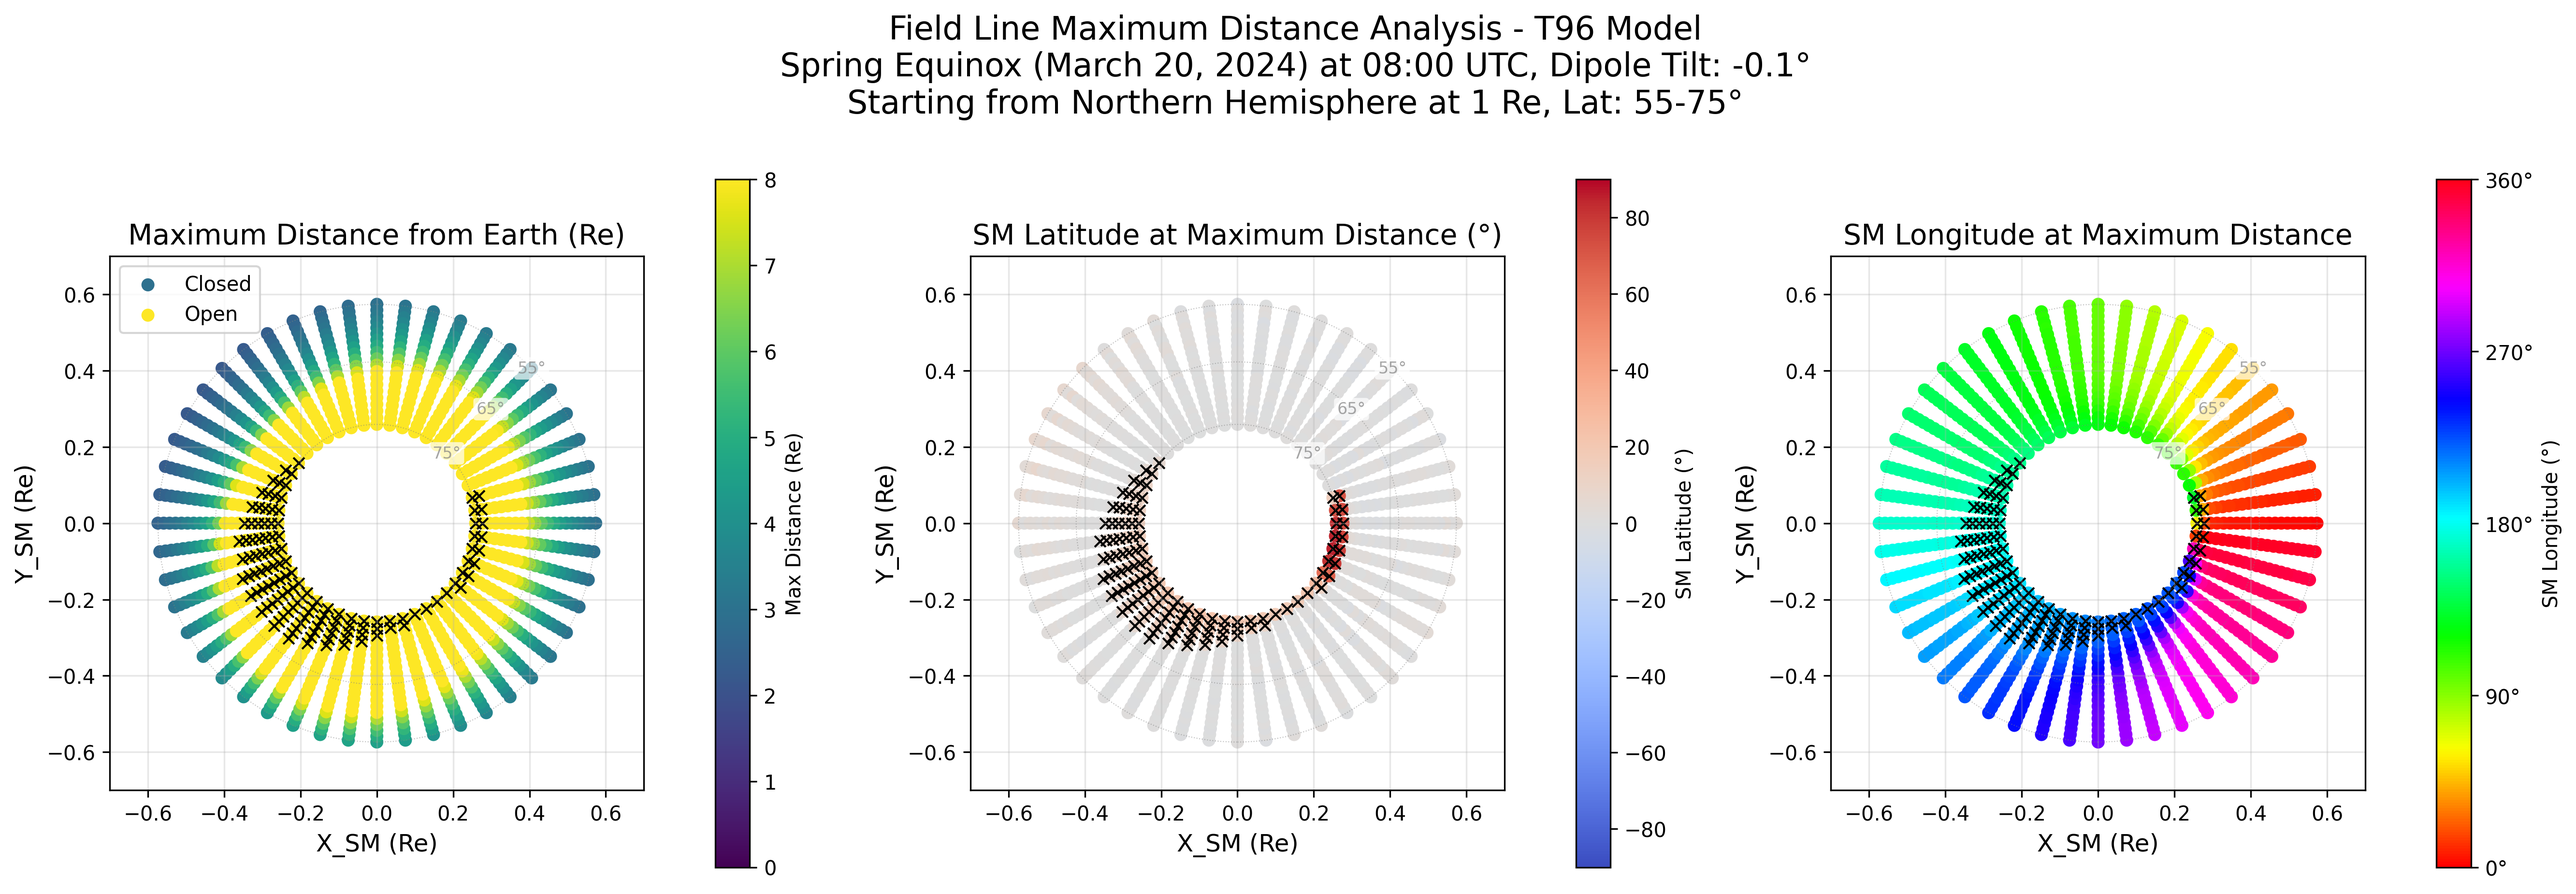
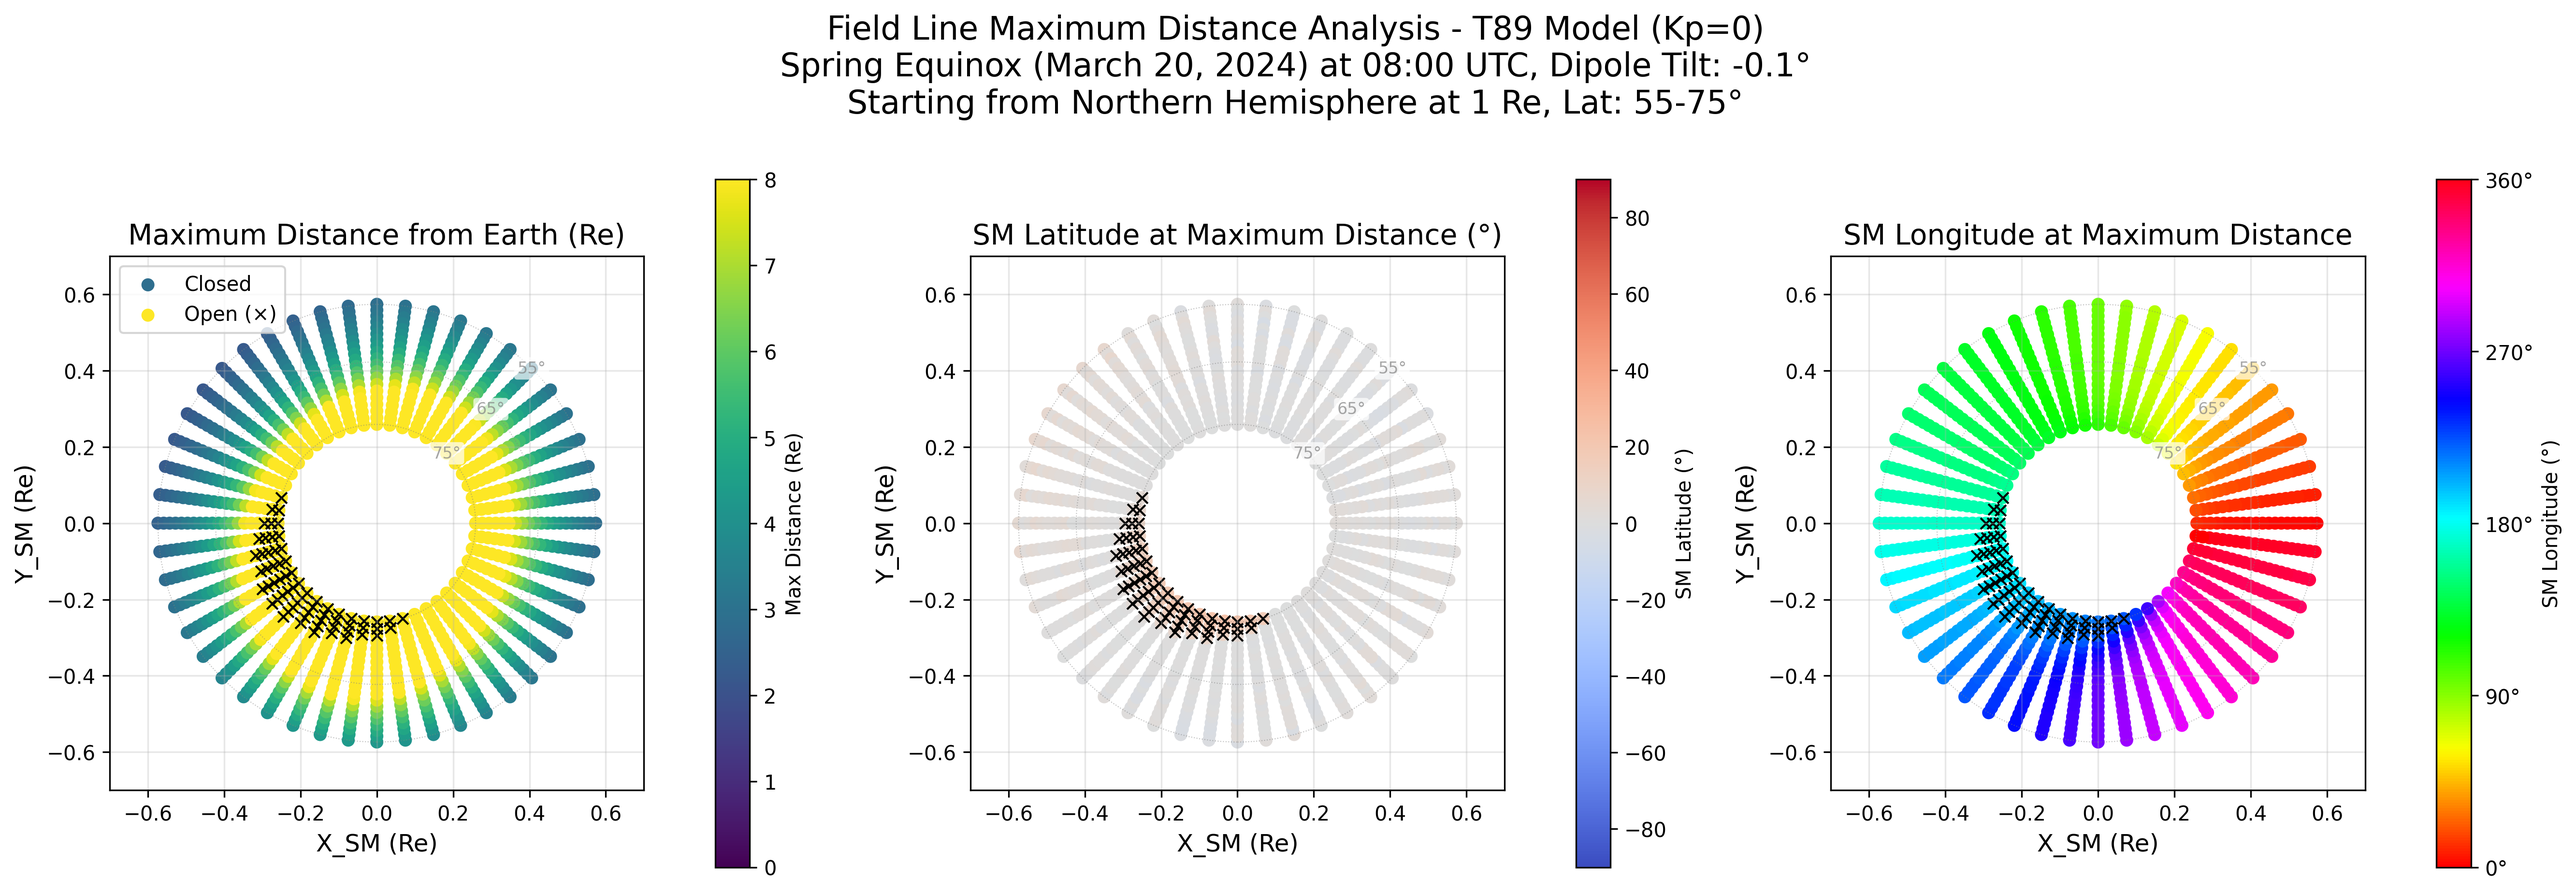
feat: Update field line analysis to use T89 model with Kp=0
- Replace T96 model with T89 in field_line_max_distance_analysis_sm_spring_equinox_0800.py
- Set Kp=0 (iopt=1) for quietest geomagnetic conditions
- Fix trace_field_lines_vectorized.py to correctly pass iopt parameter to T89
- Update plots and documentation to reflect T89 usage
- Improve legend labeling for open field lines with cross markers

🤖 Generated with Claude Code

diff --git a/examples/conjugate_test/field_line_max_distance_analysis_sm_spring_equinox_0800.py b/examples/conjugate_test/field_line_max_distance_analysis_sm_spring_equinox_0800.py
@@ -6,7 +6,7 @@ Creates Cartesian plots showing:
 1. Maximum distance from Earth center (Re)
 2. SM latitude at maximum distance point
 3. SM longitude at maximum distance point
-Uses T96 magnetospheric model with SM (Solar Magnetic) coordinates.
+Uses T89 magnetospheric model with SM (Solar Magnetic) coordinates.
 """
 
 import numpy as np
@@ -21,7 +21,7 @@ sys.path.insert(0, os.path.dirname(os.path.dirname(os.path.abspath(__file__))))
 
 import geopack
 from geopack.trace_field_lines_vectorized import trace_vectorized
-from geopack.vectorized import t96_vectorized
+from geopack.vectorized import t89_vectorized
 from geopack.coordinates_vectorized import smgsm_vectorized
 
 
@@ -70,7 +70,7 @@ def analyze_field_line_max_distance(ut, parmod, x_start_sm, y_start_sm, z_start_
     # Update geopack parameters
     ps = geopack.recalc(ut)
     
-    print(f"Tracing {len(x_start_sm)} field lines with T96 model...")
+    print(f"Tracing {len(x_start_sm)} field lines with T89 model...")
     
     # Convert SM to GSM for field line tracing
     x_start_gsm, y_start_gsm, z_start_gsm = smgsm_vectorized(x_start_sm, y_start_sm, z_start_sm, 1)
@@ -89,7 +89,7 @@ def analyze_field_line_max_distance(ut, parmod, x_start_sm, y_start_sm, z_start_
         rlim=30.0,  # Increased limit to capture distant field lines
         r0=1.0,
         parmod=parmod,
-        exname='t96',
+        exname='t89',
         inname='igrf',
         maxloop=2000,
         return_full_path=True
@@ -105,7 +105,7 @@ def analyze_field_line_max_distance(ut, parmod, x_start_sm, y_start_sm, z_start_
         rlim=30.0,
         r0=1.0,
         parmod=parmod,
-        exname='t96',
+        exname='t89',
         inname='igrf',
         maxloop=2000,
         return_full_path=True
@@ -282,13 +282,14 @@ def create_max_distance_plots(results, ut, figsize=(18, 6)):
                               cmap='viridis',
                               vmin=0, vmax=8,
                               marker='o',
-                              label='Open')
+                              label='Open (×)')
         
-        # Add crosses on top
+        # Add crosses on top (don't include in legend)
         ax1.scatter(x_start[open_mask], y_start[open_mask], 
                    c='black', s=30,
                    marker='x',
-                   linewidths=1)
+                   linewidths=1,
+                   label='_nolegend_')
     
     # Add Earth circle
     earth1 = plt.Circle((0, 0), 1.0, fill=False, edgecolor='black', linewidth=2, linestyle='--')
@@ -456,7 +457,7 @@ def create_max_distance_plots(results, ut, figsize=(18, 6)):
     dipole_tilt = np.degrees(ps)
     
     # Overall title
-    fig.suptitle(f'Field Line Maximum Distance Analysis - T96 Model\n' + 
+    fig.suptitle(f'Field Line Maximum Distance Analysis - T89 Model (Kp=0)\n' + 
                  f'Spring Equinox (March 20, 2024) at 08:00 UTC, Dipole Tilt: {dipole_tilt:.1f}°\n' +
                  'Starting from Northern Hemisphere at 1 Re, Lat: 55-75°', 
                  fontsize=16, y=1.02)
@@ -474,9 +475,9 @@ def main():
     
     print(f"Using date: {spring_equinox}")
     
-    # Set T96 model parameters (moderate storm conditions)
-    # For T96: [Pdyn, Dst, ByIMF, BzIMF, unused...]
-    parmod = np.array([3.0, -30.0, 0.0, -5.0, 0.0, 0.0, 0.0, 0.0, 0.0, 0.0])
+    # Set T89 model parameters (quiet conditions)
+    # For T89: parmod[0] = iopt (1-7), where iopt=1 corresponds to Kp=0
+    parmod = np.array([1.0, 0.0, 0.0, 0.0, 0.0, 0.0, 0.0, 0.0, 0.0, 0.0])
     
     # Create starting grid directly in SM coordinates
     print("Creating grid directly in SM coordinates...")
@@ -493,11 +494,8 @@ def main():
     print(f"  Grid points: {len(x_start_sm)}")
     print(f"  Coordinate system: SM (Solar Magnetic)")
     print(f"  Dipole tilt angle: {np.degrees(ps):.1f}°")
-    print(f"  T96 Parameters:")
-    print(f"    Pdyn = {parmod[0]} nPa")
-    print(f"    Dst = {parmod[1]} nT")
-    print(f"    ByIMF = {parmod[2]} nT")
-    print(f"    BzIMF = {parmod[3]} nT")
+    print(f"  T89 Parameters:")
+    print(f"    Kp = 0 (iopt={parmod[0]:.0f}, quietest conditions)")
     
     # Analyze field lines
     results = analyze_field_line_max_distance(

diff --git a/examples/conjugate_test/field_line_max_distance_analysis_sm.py b/examples/conjugate_test/field_line_max_distance_analysis_sm.py
@@ -281,13 +281,14 @@ def create_max_distance_plots(results, figsize=(18, 6)):
                               cmap='viridis',
                               vmin=0, vmax=8,
                               marker='o',
-                              label='Open')
+                              label='Open (×)')
         
-        # Add crosses on top
+        # Add crosses on top (don't include in legend)
         ax1.scatter(x_start[open_mask], y_start[open_mask], 
                    c='black', s=30,
                    marker='x',
-                   linewidths=1)
+                   linewidths=1,
+                   label='_nolegend_')
     
     # Add Earth circle
     earth1 = plt.Circle((0, 0), 1.0, fill=False, edgecolor='black', linewidth=2, linestyle='--')

diff --git a/geopack/trace_field_lines_vectorized.py b/geopack/trace_field_lines_vectorized.py
@@ -61,7 +61,9 @@ def call_external_model_vectorized(exname: str, parmod, ps: float, x, y, z):
     
     if exname == 't89':
         if t89_vectorized is not None:
-            return t89_vectorized(parmod, ps, x, y, z)
+            # T89 expects iopt as first parameter, extract from parmod[0]
+            iopt = int(parmod[0]) if np.isscalar(parmod[0]) else int(parmod[0].item())
+            return t89_vectorized(iopt, ps, x, y, z)
         else:
             # Fallback to scalar with loop
             from .models import t89
